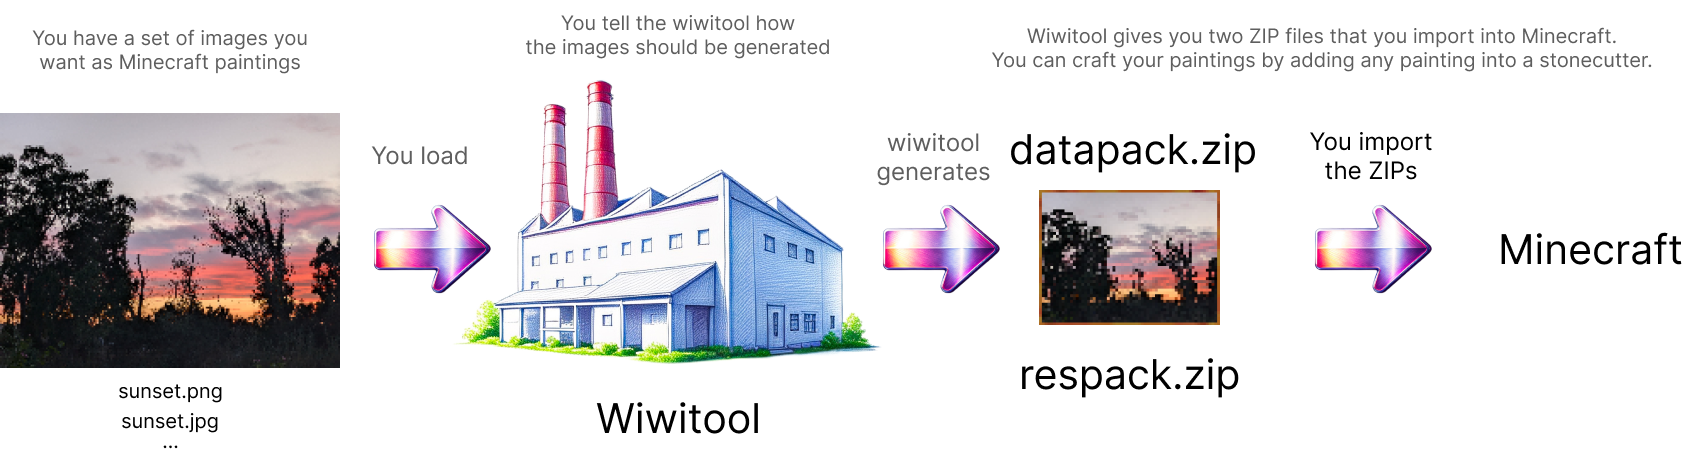
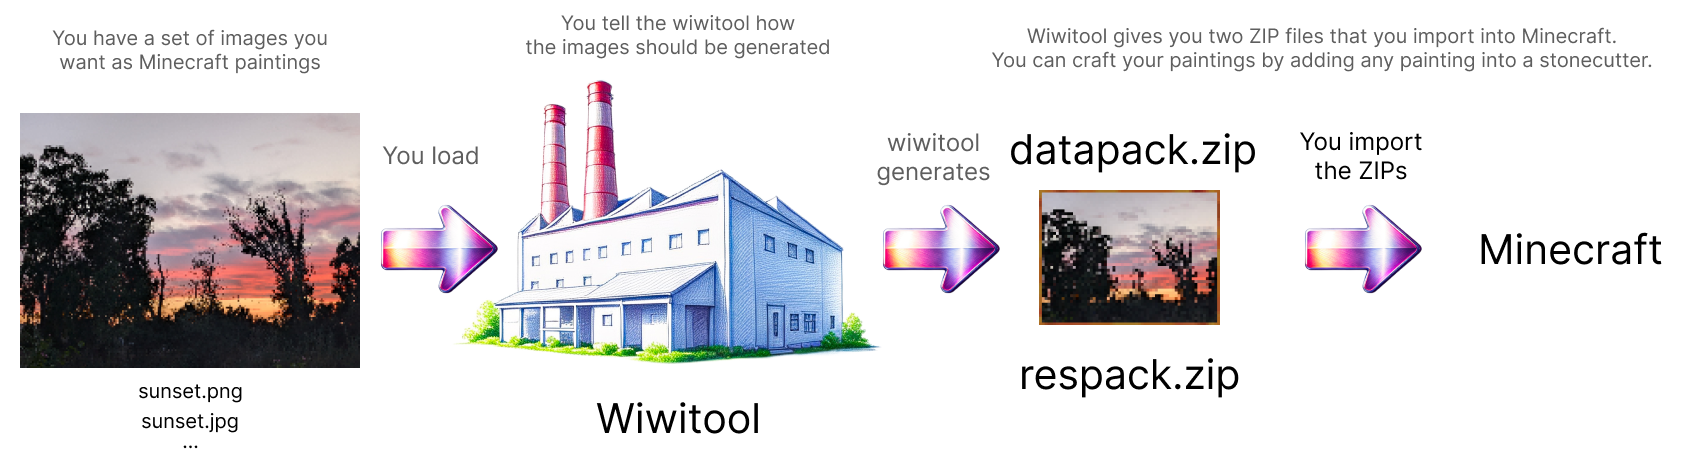
UI and UX improvements
- Change flow.png image
- Display message when loading files
- Better dark mode

diff --git a/front/src/App.svelte b/front/src/App.svelte
@@ -5,7 +5,10 @@
   import PaintingCard from "./components/PaintingCard.svelte";
 
   let module = null;
-  let isDragOver = false;
+  let isDragOver = $state(false);
+
+  let totalFiles = $state(0);
+  let loadedFiles = $state(0);
 
   onMount(async () => {
     module = await getWasmModule();
@@ -17,6 +20,7 @@
     if (!module) return;
 
     const files = e.dataTransfer.files;
+    totalFiles = files.length;
 
     for (const file of files) {
       const buffer = await file.arrayBuffer();
@@ -54,6 +58,9 @@
           cppPainting: painting,
         },
       ]);
+
+      loadedFiles++;
+      if (loadedFiles == totalFiles) loadedFiles = totalFiles = 0;
     }
   }
 
@@ -113,56 +120,63 @@
   </div>
 
   {#if !$wasmReady}
-    <p>Loading Wasm Module...</p>
+    <p>Loading webassembly module...</p>
   {:else}
-    <h2>What is this tool all about?</h2>
-    <p>
-      This is a web tool for creating <b
-        >custom painting items in Minecraft out of your own images</b
-      >. You drag and drop all the images you want to have as Minecraft painting
-      items, and this tool bundles them into two files:
-      <code>datapack.zip</code>
-      and <code>respack.zip</code>.
-    </p>
+    <details class="app-card">
+      <summary>Information about this tool</summary>
 
-    <img
-      clas="how-to-use-wiwitool-img"
-      src="/flow.png"
-      alt="Workflow of using the wiwitool"
-    />
+      <h2>What is this tool all about?</h2>
+      <p>
+        This is a web tool for creating <b
+          >custom painting items in Minecraft out of your own images</b
+        >. You drag and drop all the images you want to have as Minecraft
+        painting items, and this tool bundles them into two files:
+        <code>datapack.zip</code>
+        and <code>respack.zip</code>.
+      </p>
 
-    <p>
-      The paitings you get can be crafted out of a stonecutter. You can any of
-      your paintings by adding any painting to a stonecutter.
-    </p>
+      <div class="how-to-use-wiwitool">
+        <img src="/flow.png" alt="Workflow of using the wiwitool" />
+      </div>
 
-    <h3>Wiwitool features</h3>
+      <p>
+        The paitings you get can be crafted from a stonecutter. You can obtain
+        any of your paintings by adding any painting to a stonecutter.
+      </p>
 
-    <ul>
-      <li>
-        Open-source software (<a
-          href="https://github.com/raegnald/wiwitool/"
-          target="_blank">Github repository</a
-        >). Free to use forever.
-      </li>
-      <li>
-        Runs locally on your browser (all your images are kept on <i>your</i> machine.)
-      </li>
-      <li>
-        You can manipulate and preview how your image will be seen in Minecraft.
-      </li>
-    </ul>
+      <h3>Wiwitool features</h3>
+
+      <ul>
+        <li>
+          Open-source software (<a
+            href="https://github.com/raegnald/wiwitool/"
+            target="_blank">Github repository</a
+          >). Free to use forever.
+        </li>
+        <li>
+          Runs locally on your browser (all your images are kept on <i>your</i> machine.)
+        </li>
+        <li>
+          You can manipulate and preview how your image will be seen in
+          Minecraft.
+        </li>
+      </ul>
+    </details>
 
     <h2>1. Load your images</h2>
 
     <button
       class="drop-zone"
       class:hover={isDragOver}
-      on:drop={handleDrop}
-      on:dragover={handleDragOver}
-      on:dragleave={handleDragLeave}
+      ondrop={handleDrop}
+      ondragover={handleDragOver}
+      ondragleave={handleDragLeave}
     >
-      <p>Drag and drop images here</p>
+      {#if totalFiles - loadedFiles > 0}
+        <p>Loaded {loadedFiles} of {totalFiles}</p>
+      {:else}
+        <p>Drag and drop images here</p>
+      {/if}
     </button>
 
     {#if $paintingsStore.length > 0}
@@ -176,8 +190,9 @@
     </div>
 
     {#if $paintingsStore.length > 0}
+      <h2>3. Enjoy your paintings!</h2>
       <div id="generate-btn-container">
-        <button on:click={generatePack} class="generate-btn">
+        <button onclick={generatePack} class="generate-btn">
           Generate Minecraft Pack
         </button>
       </div>
@@ -186,6 +201,9 @@
 </main>
 
 <style>
+  main {
+    margin-bottom: 200px;
+  }
   #wiwi-logo-wide {
     display: flex;
     justify-content: center;
@@ -197,6 +215,7 @@
     width: 100%;
     max-width: 768px;
   }
+
   .drop-zone {
     display: block;
     width: 100%;
@@ -215,7 +234,7 @@
   .list {
     /*display: flex;
     flex-wrap: wrap;*/
-    margin-bottom: 200px;
+    margin-bottom: 50px;
   }
 
   #generate-btn-container {
@@ -241,6 +260,16 @@
   @media (prefers-color-scheme: light) {
     .drop-zone {
       background-color: #e7f0a5;
+    }
+  }
+
+  @media (prefers-color-scheme: dark) {
+    #wiwi-logo-wide,
+    .how-to-use-wiwitool {
+      background-color: #fefefe;
+      border-radius: 12px;
+      border: 1px solid #ccc;
+      padding: 20px;
     }
   }
 </style>

diff --git a/front/src/styles/app.css b/front/src/styles/app.css
@@ -4,8 +4,9 @@
   font-weight: 400;
 
   color-scheme: light dark;
-  color: rgba(255, 255, 255, 0.87);
-  background-color: #242424;
+
+  color: #213547;
+  background-color: #f8ffc7;
 
   font-synthesis: none;
   text-rendering: optimizeLegibility;
@@ -19,7 +20,7 @@ a {
   text-decoration: inherit;
 }
 a:hover {
-  color: #535bf2;
+  color: #747bff;
 }
 
 body {
@@ -36,14 +37,23 @@ img {
   max-width: 100%;
 }
 
-.card {
-  padding: 2em;
+.app-card {
+  border: 1px solid #ccc;
+  background: white;
+  border-radius: 12px;
+  box-shadow: 0 2px 4px rgba(0, 0, 0, 0.1);
+  padding: 20px;
 }
 
 #app {
   max-width: 1024px;
   margin: 0 auto;
   padding: 2rem;
+}
+
+details summary {
+  user-select: none;
+  cursor: pointer;
 }
 
 button {
@@ -53,7 +63,7 @@ button {
   font-size: 1em;
   font-weight: 500;
   font-family: inherit;
-  background-color: #1a1a1a;
+  background-color: #f9f9f9;
   cursor: pointer;
   transition: border-color 0.25s;
 }
@@ -65,15 +75,19 @@ button:focus-visible {
   outline: 4px auto -webkit-focus-ring-color;
 }
 
-@media (prefers-color-scheme: light) {
+@media (prefers-color-scheme: dark) {
   :root {
-    color: #213547;
-    background-color: #f8ffc7;
+    color: rgba(255, 255, 255, 0.87);
+    background-color: #242424;
   }
   a:hover {
-    color: #747bff;
+    color: #535bf2;
   }
   button {
-    background-color: #f9f9f9;
+    background-color: #1a1a1a;
+  }
+  .app-card {
+    background-color: #292929;
+    border-color: #666;
   }
 }

diff --git a/front/src/components/PaintingCard.svelte b/front/src/components/PaintingCard.svelte
@@ -90,7 +90,7 @@
   });
 </script>
 
-<div class="card">
+<div class="app-card card">
   <div class="actions">
     <button on:click={rotate}>Rotate ↻</button>
     <button on:click={remove} class="delete">Remove</button>
@@ -144,15 +144,10 @@
 
 <style>
   .card {
-    border: 1px solid #ccc;
-    padding: 20px;
     margin: 20px 0px;
     display: flex;
     align-items: center;
     gap: 1rem;
-    background: white;
-    border-radius: 8px;
-    box-shadow: 0 2px 4px rgba(0, 0, 0, 0.1);
   }
   .transformation {
     display: flex;
